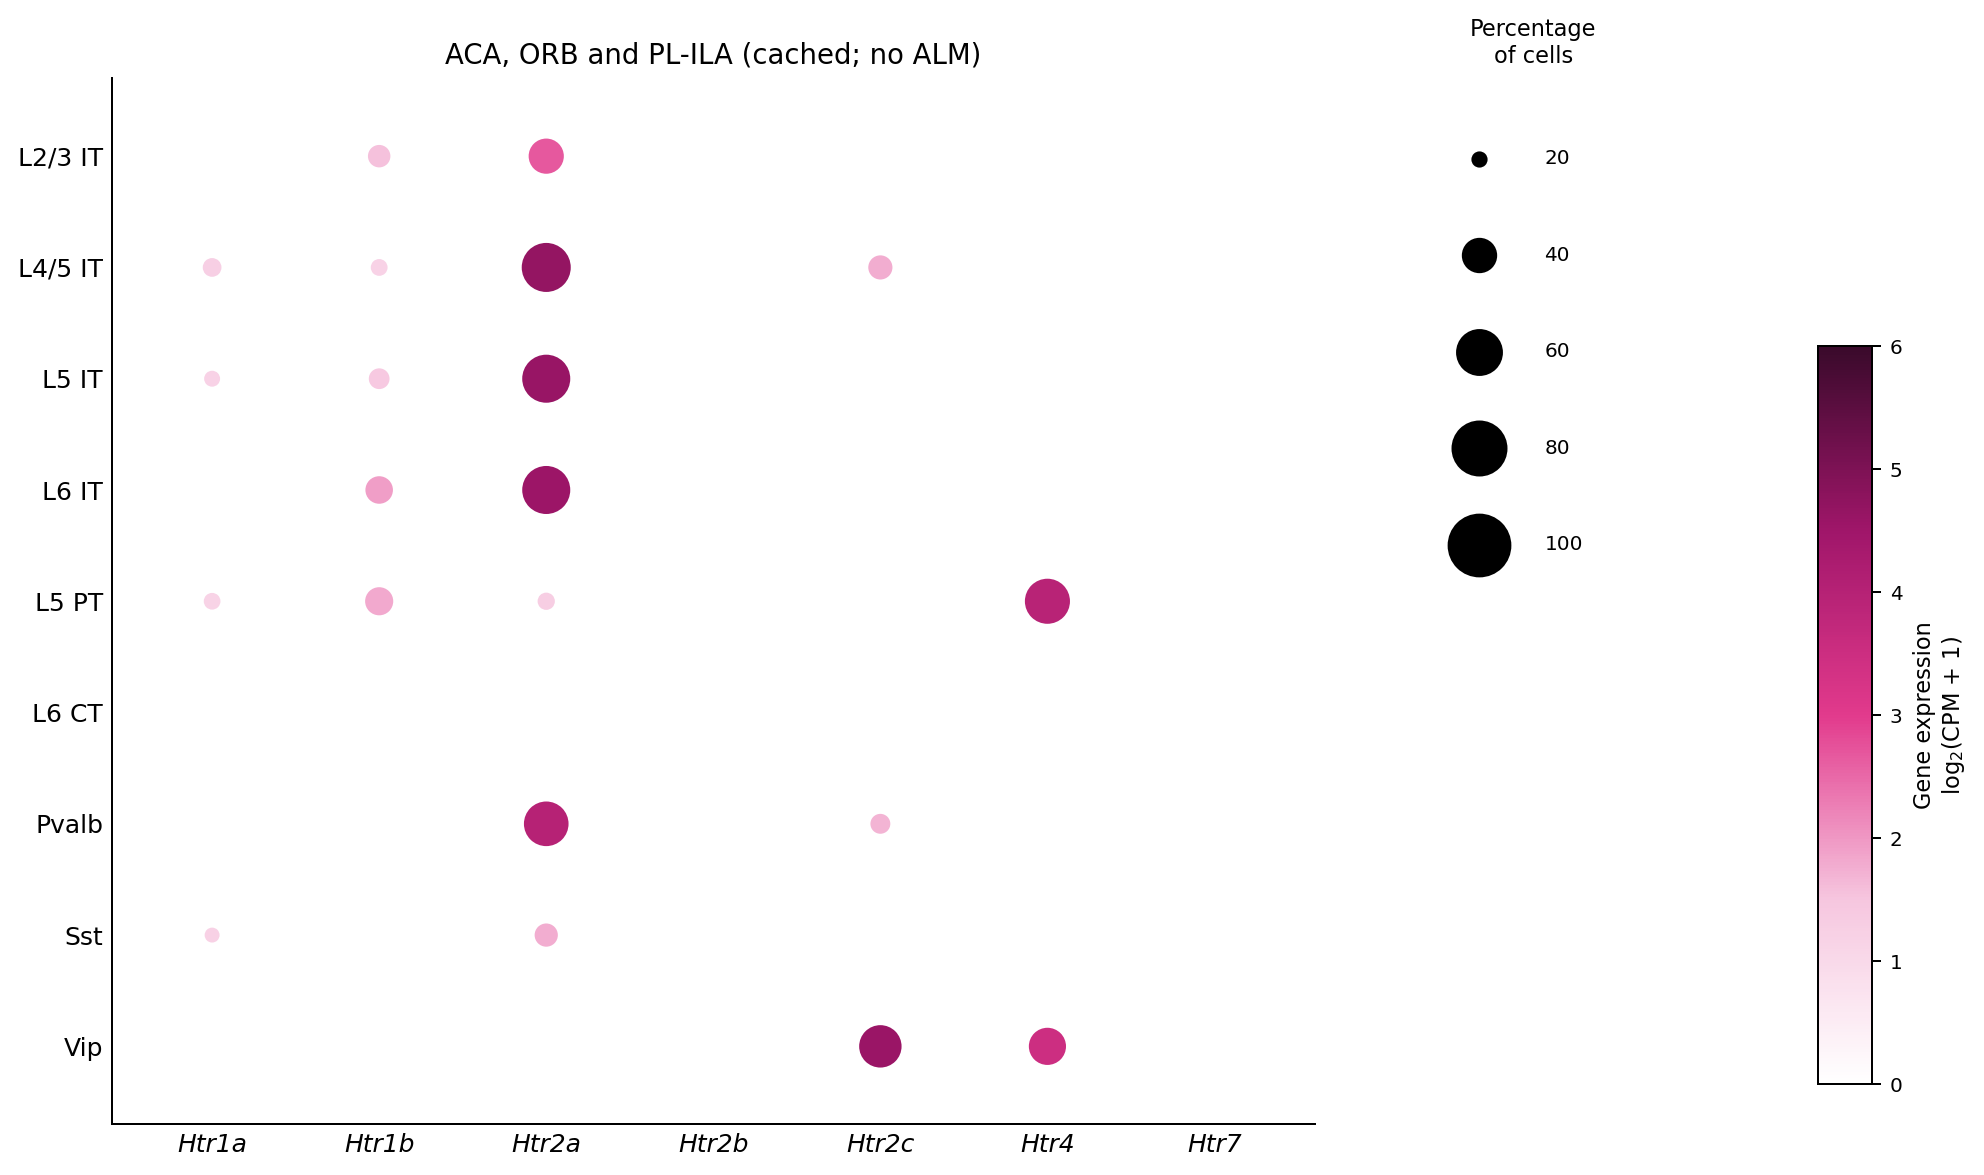
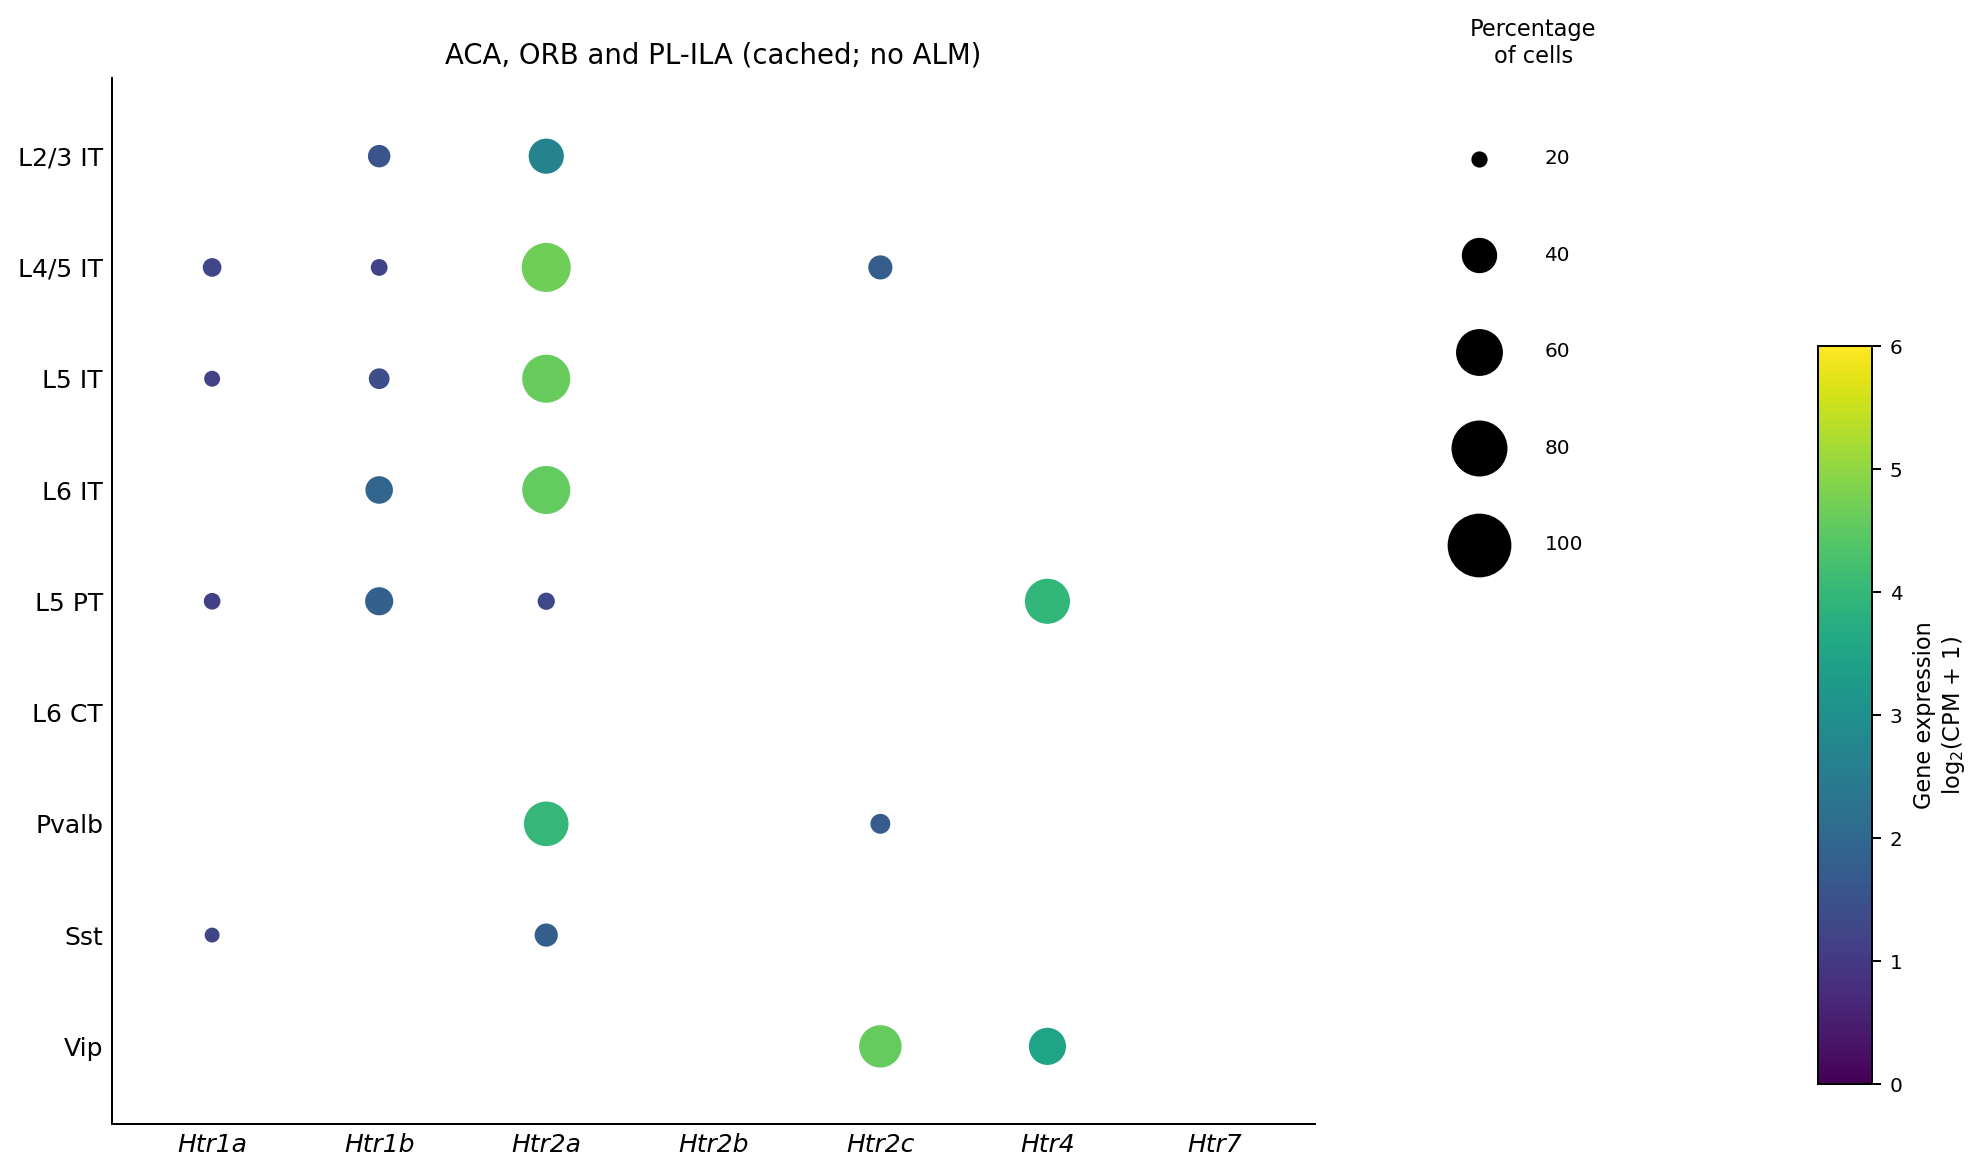
Switch Xiao-comparison dot plot colormap to viridis

diff --git a/notebooks/regenerate_xiao_comparison_dotplot.py b/notebooks/regenerate_xiao_comparison_dotplot.py
@@ -97,10 +97,7 @@ def main():
     fig = plt.figure(figsize=(0.95 * n_cols + 5.5, 0.55 * n_rows + 2.5))
     ax = fig.add_axes([0.10, 0.12, 0.55, 0.78])
 
-    cmap = LinearSegmentedColormap.from_list(
-        'xiao_pink',
-        ['#ffffff', '#f6c6df', '#e23a8c', '#a0166a', '#3a0a2b'],
-    )
+    cmap = plt.get_cmap('viridis')
     norm = Normalize(vmin=0, vmax=VMAX)
 
     SIZE_MIN_PCT = MIN_FRAC_DISPLAY * 100
